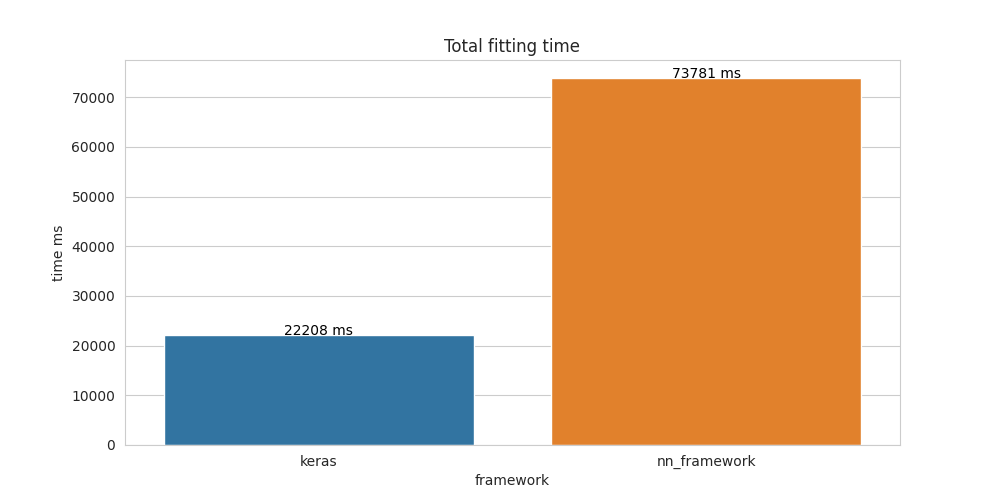
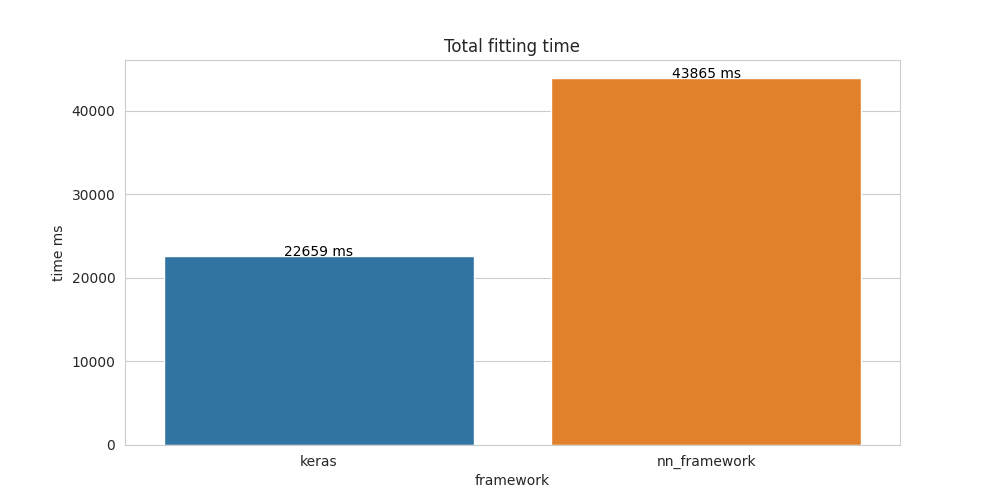
Speed up fitting a little

diff --git a/src/optimizer.hpp b/src/optimizer.hpp
@@ -11,6 +11,7 @@ template<typename T>
 class IOptimizer {
 public:
     [[nodiscard]] virtual Tensor<T> GetGradientStep(const Tensor<T> &gradients, const ILayer<T> *layer) = 0;
+    [[nodiscard]] virtual Tensor<T> GetGradientStep(Tensor<T>&& gradients, const ILayer<T> *layer) = 0;
 
     virtual ~IOptimizer() = default;
 };
@@ -23,11 +24,14 @@ public:
     explicit Optimizer(double _learning_rate) : learning_rate(_learning_rate) {}
 
     [[nodiscard]] Tensor<T> GetGradientStep(const Tensor<T> &gradients, const ILayer<T> *layer) override {
-        UNUSED(layer)
-        return gradients.template Transform<T>([this](const arma::Mat<T> &v) {
-            arma::Mat<T> value = -v * learning_rate;
-            return value;
+        return GetGradientStep(std::move(Tensor<T>(gradients)), layer);
+    }
+
+    [[nodiscard]] Tensor<T> GetGradientStep(Tensor<T>&& gradients, const ILayer<T> *) override {
+        gradients.ForEach([this](int, int, int, arma::Mat<T> &v) {
+            v *= -learning_rate;
         });
+        return std::move(gradients);
     }
 
     template<class Archive>
@@ -60,6 +64,11 @@ public:
         return previous_values[layer] = Tensor<T>(
                 gradients.D, momentum * previous_gradient.Values() - learning_rate * gradients.Values()
         );
+    }
+
+    [[nodiscard]] Tensor<T> GetGradientStep(Tensor<T>&& gradients, const ILayer<T> *layer) override {
+        const Tensor<T> tensor(gradients);
+        return GetGradientStep(tensor, layer);
     }
 
     template<class Archive>
@@ -105,6 +114,11 @@ public:
         });
     }
 
+    [[nodiscard]] Tensor<T> GetGradientStep(Tensor<T>&& gradients, const ILayer<T> *layer) override {
+        const Tensor<T> tensor(gradients);
+        return GetGradientStep(tensor, layer);
+    }
+
     template<class Archive>
     void serialize(Archive &ar) {
         ar(learning_rate, rho, epsilon);
@@ -131,16 +145,24 @@ public:
     }
 
     [[nodiscard]] Tensor<T> GetGradientStep(const Tensor<T> &gradients, const ILayer<T> *layer) override {
-        auto previous_gradient_avg = GetOrCreatePrevious(layer, average_of_gradients, arma::size(gradients.Values()));
-        auto previous_square_gradient_avg = GetOrCreatePrevious(layer, average_of_squares_of_gradients,
-                                                                arma::size(gradients.Values()));
+        return GetGradientStep(std::move(Tensor<T>(gradients)), layer);
+    }
 
-        auto cur_avg = average_of_gradients[layer] = beta_1 * previous_gradient_avg + (1 - beta_1) * gradients.Values();
-        auto cur_square_avg = average_of_squares_of_gradients[layer] =
-                                      beta_2 * previous_square_gradient_avg +
-                                      (1 - beta_2) * arma::square(gradients.Values());
+    [[nodiscard]] Tensor<T> GetGradientStep(Tensor<T>&& gradients, const ILayer<T> *layer) override {
+        if (!average_of_squares_of_gradients.count(layer)) {
+            average_of_squares_of_gradients[layer].zeros(arma::size(gradients.Values()));
+        }
+        auto& layer_average_of_squares_of_gradients = average_of_squares_of_gradients[layer];
 
-        return Tensor<T>(gradients.D, -learning_rate * gradients.Values() / arma::sqrt(cur_square_avg + epsilon));
+        layer_average_of_squares_of_gradients *= beta_2;
+        layer_average_of_squares_of_gradients += (1 - beta_2) * arma::square(gradients.Values());
+
+        gradients.ForEach([this, &layer_average_of_squares_of_gradients](int, int, int, arma::Mat<T> &v) {
+            v *= -learning_rate;
+            v /= arma::sqrt(layer_average_of_squares_of_gradients + epsilon);
+        });
+
+        return std::move(gradients);
     }
 
     template<class Archive>
@@ -166,21 +188,10 @@ public:
 
 
 private:
-    arma::Mat<T> GetOrCreatePrevious(const ILayer<T> *layer, mapping_type &mapping, arma::SizeMat size) {
-        auto it = mapping.find(layer);
-        arma::Mat<T> previous;
-        if (it != mapping.end()) {
-            return it->second;
-        }
-        previous.zeros(size);
-        return previous;
-    }
-
     double learning_rate;
     double beta_1;
     double beta_2;
     double epsilon;
-    mapping_type average_of_gradients;
     mapping_type average_of_squares_of_gradients;
 };
 

diff --git a/src/neural_network.hpp b/src/neural_network.hpp
@@ -88,10 +88,8 @@ public:
         }
         for (int i = 0; i < epochs; i++) {
             auto fitEpochCallback = callback->Fit(this, i);
-            DoFit(input, output, batch_size, shuffle, *callback);
+            auto prediction = DoFit(input, output, batch_size, shuffle, *callback);
             if (fitEpochCallback != std::nullopt) {
-                // todo (sivukhin): try to avoid unnecessary calculation here
-                auto prediction = Predict(input);
                 auto predictionLoss = loss->GetLoss(prediction, output);
                 auto signal = fitEpochCallback.value()(prediction, predictionLoss);
                 if (signal == CallbackSignal::Stop) {
@@ -127,26 +125,29 @@ public:
     }
 
 private:
-    void DoFit(const Tensor<T> &input, const Tensor<T> &output, size_t batch_size, bool shuffle,
-               ANeuralNetworkCallback<T> &callback) {
+    Tensor<T> DoFit(const Tensor<T> &input, const Tensor<T> &output, size_t batch_size, bool shuffle,
+                    ANeuralNetworkCallback<T> &callback) {
         auto real_batch_size = (batch_size != NoBatches) ? batch_size : input.D[0];
-
-        std::vector<Data<T>> batches = GenerateBatches<T>(Data<T>{input, output}, real_batch_size, shuffle);
+        auto batches = GenerateBatches<T>(input.D[0], real_batch_size, shuffle);
+        auto predictions = Tensor<T>::filled(output.D, arma::fill::zeros);
         int batch_id = 0;
-        for (const Data<T> &batch: batches) {
+        for (const arma::uvec& batch_inds: batches) {
+            auto batch = Data<T>{input.Rows(batch_inds), output.Rows(batch_inds)};
             auto fitBatchAction = callback.FitBatch(batch, batch_id++, batches.size());
-            DoFitBatch(batch, callback);
+            auto pred = DoFitBatch(batch, callback);
+            predictions.SetRows(batch_inds, pred);
             if (fitBatchAction != std::nullopt) {
                 fitBatchAction.value()();
             }
         }
+        return predictions;
     }
 
-    void DoFitBatch(const Data<T> &batch, ANeuralNetworkCallback<T> &callback) {
+    Tensor<T> DoFitBatch(const Data<T> &batch, ANeuralNetworkCallback<T> &callback) {
         std::vector<Tensor<T>> inter_outputs = {batch.input};
         for (auto &&layer : layers) {
             auto forwardAction = callback.LayerForwardPass(layer.get(), inter_outputs.back());
-            inter_outputs.push_back(layer->Apply(inter_outputs.back()));
+            inter_outputs.emplace_back(std::move(layer->Apply(inter_outputs.back())));
             if (forwardAction != std::nullopt) {
                 forwardAction.value()(inter_outputs.back());
             }
@@ -163,7 +164,7 @@ private:
                 backwardAction.value()(gradients);
             }
             auto gradientStepAction = callback.OptimizerGradientStep(layers[i].get(), gradients.layer_gradients);
-            auto gradients_to_apply = optimizer->GetGradientStep(gradients.layer_gradients, layers[i].get());
+            auto gradients_to_apply = optimizer->GetGradientStep(std::move(gradients.layer_gradients), layers[i].get());
             if (gradientStepAction != std::nullopt) {
                 gradientStepAction.value()(gradients_to_apply);
             }
@@ -174,6 +175,7 @@ private:
             }
             last_output_gradient = gradients.input_gradients;
         }
+        return inter_outputs.back();
     }
 
     std::vector<std::unique_ptr<ILayer<T>>> layers;

diff --git a/src/data_processing/data_utils.hpp b/src/data_processing/data_utils.hpp
@@ -112,36 +112,16 @@ namespace nn_framework::data_processing {
     };
 
     template<typename T>
-    Data<T> ShuffleData(const Data<T>& data) {
-        size_t sz = data.input.D[0];
-        arma::uvec ordering = arma::shuffle(arma::linspace<arma::uvec>(0, sz - 1, sz));
+    std::vector<arma::uvec> GenerateBatches(size_t size, size_t batch_size, bool shuffle) {
+        arma::uvec ordering = shuffle
+                              ? arma::shuffle(arma::linspace<arma::uvec>(0, size - 1, size))
+                              : arma::linspace<arma::uvec>(0, size - 1, size);
 
-        auto new_input = data.input.Rows(ordering);
-        auto new_output = data.output.Rows(ordering);
-
-        return Data<T>{
-                Tensor(data.input.D, new_input.Field()),
-                Tensor(data.output.D, new_output.Field())
-        };
-    }
-
-    template<typename T>
-    std::vector<Data<T>> GenerateBatches(Data<T> data, size_t batch_size, bool shuffle) {
-        if (shuffle) {
-            data = ShuffleData<T>({data.input, data.output});
-        }
-        DLOG(INFO) << "data dim [input=" << FormatDimensions(data.input.D) << " "
-                   << "output=" << FormatDimensions(data.output.D) << "]";
-        std::vector<Data<T>> batches;
-        size_t size = data.input.D[0];
-
+        std::vector<arma::uvec> batches;
+        batches.reserve(size / batch_size + 1);
         for (size_t i = 0; i < size; i += batch_size) {
-            auto cur_batch_size = batch_size;
-            if (i + batch_size >= size) {
-                cur_batch_size = size - i;
-            }
-            arma::uvec rows = arma::linspace<arma::uvec>(i, i + cur_batch_size - 1, cur_batch_size);
-            batches.push_back(Data<T>{data.input.Rows(rows), data.output.Rows(rows)});
+            auto cur_batch_size = std::min(batch_size, size - i);
+            batches.emplace_back(ordering.subvec(i, i + cur_batch_size - 1));
         }
         return batches;
     }

diff --git a/src/scoring/scoring.hpp b/src/scoring/scoring.hpp
@@ -11,13 +11,7 @@ namespace nn_framework::scoring {
         ensure(y_true.Rank() == 2);
         arma::ucolvec y_true_vals = arma::index_max(y_true.Values(), 1);
         arma::ucolvec y_pred_vals = arma::index_max(y_pred.Values(), 1);
-        arma::s64 cnt = 0;
-        for (int i = 0; i < y_true.D[0]; i++) {
-            if (y_true_vals.at(i) == y_pred_vals.at(i)) {
-                cnt++;
-            }
-        }
-        return static_cast<double>(cnt) / y_true.D[0];
+        return arma::as_scalar(arma::mean(arma::conv_to<arma::mat>::from(y_true_vals == y_pred_vals)));
     }
 
     template<typename T>

diff --git a/src/tensor.hpp b/src/tensor.hpp
@@ -261,6 +261,19 @@ public:
         return new_data;
     }
 
+    void SetRows(const arma::uvec& rows, const Tensor<T>& data) {
+        if (Rank() <= 2) {
+            values.at(0).rows(rows) = data.Values();
+        } else if (Rank() <= 5) {
+            size_t ind = 0;
+            for (auto row : rows) {
+                values.row(row) = data.values.row(ind);
+            }
+        } else {
+            throw std::logic_error("too many dimensions");
+        }
+    }
+
     TensorDimensions D;
 private:
     arma::field<arma::Mat<T>> values;
